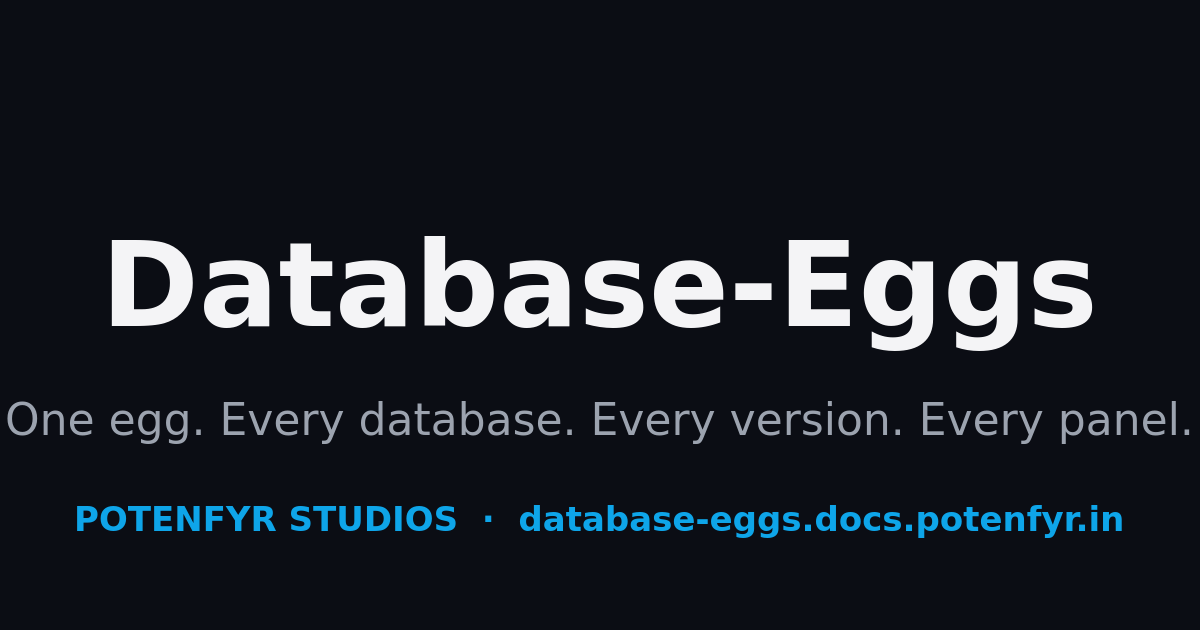
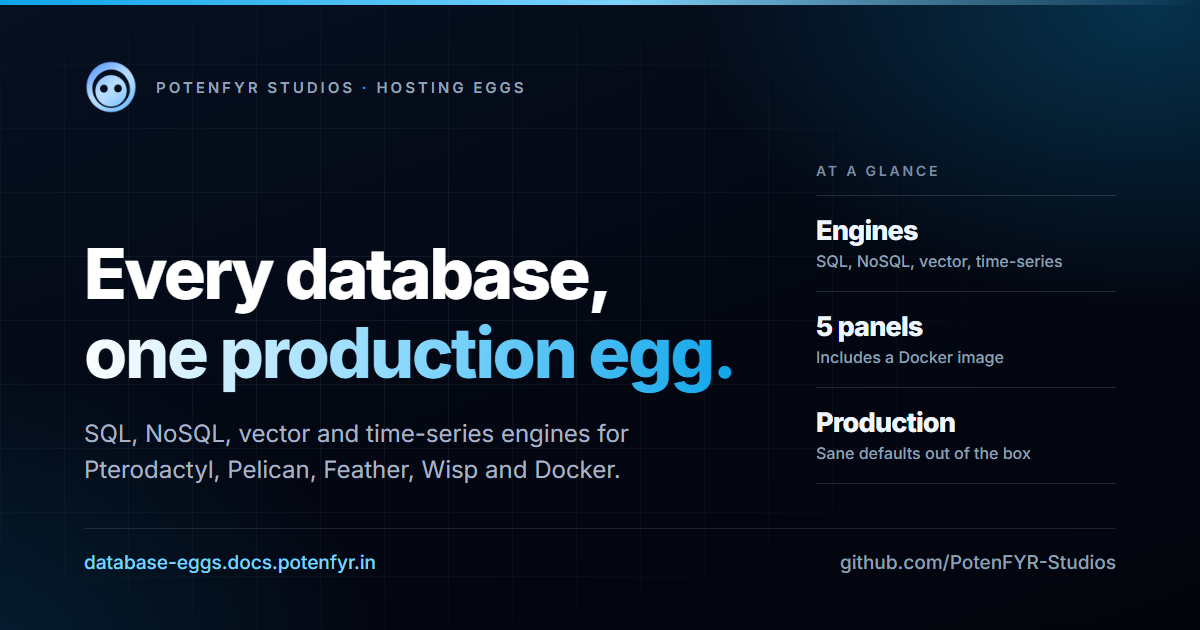
feat(docs): redesigned OG card rendered from a committed script

diff --git a/docs/scripts/og/card.html b/docs/scripts/og/card.html
@@ -1,0 +1,199 @@
+<!doctype html>
+<html lang="en">
+  <head>
+    <meta charset="utf-8" />
+    <title>Database-Eggs link preview</title>
+    <!--
+      Shared template for PotenFYR Studios project OG cards.
+      Edit only the CONFIG block below; the layout stays identical across the org
+      so every project's link preview reads as one family.
+      Render with: bun run og:image  (scripts/og/build-og.mjs)
+    -->
+    <link rel="preconnect" href="https://fonts.googleapis.com" />
+    <link rel="preconnect" href="https://fonts.gstatic.com" crossorigin />
+    <link
+      href="https://fonts.googleapis.com/css2?family=Inter:wght@400;500;600;700;800&display=swap"
+      rel="stylesheet"
+    />
+    <style>
+      /* ---------------- CONFIG ---------------- */
+      :root {
+        --accent: #0ea5e9;         /* project accent, matches the docs site */
+        --accent-soft: #7dd3fc;    /* lighter tint of --accent */
+      }
+      /* ---------------- /CONFIG --------------- */
+
+      * { box-sizing: border-box; margin: 0; padding: 0; }
+      html, body { width: 1200px; height: 630px; overflow: hidden; }
+      body {
+        font-family: 'Inter', 'Segoe UI', system-ui, sans-serif;
+        background: #030712;
+        color: #fff;
+        -webkit-font-smoothing: antialiased;
+      }
+
+      .card {
+        position: relative;
+        width: 1200px;
+        height: 630px;
+        padding: 60px 84px 56px;
+        display: flex;
+        flex-direction: column;
+        background:
+          radial-gradient(720px 460px at 96% 2%, color-mix(in srgb, var(--accent) 26%, transparent), transparent 64%),
+          radial-gradient(700px 500px at -4% 106%, color-mix(in srgb, var(--accent) 16%, transparent), transparent 62%),
+          linear-gradient(160deg, #061021 0%, #030712 54%, #03050d 100%);
+        overflow: hidden;
+      }
+
+      .grid {
+        position: absolute;
+        inset: 0;
+        background-image:
+          linear-gradient(to right, rgba(148, 163, 184, 0.10) 1px, transparent 1px),
+          linear-gradient(to bottom, rgba(148, 163, 184, 0.10) 1px, transparent 1px);
+        background-size: 64px 64px;
+        -webkit-mask-image: radial-gradient(780px 430px at 32% 50%, #000 0%, rgba(0, 0, 0, 0.5) 60%, transparent 88%);
+        mask-image: radial-gradient(780px 430px at 32% 50%, #000 0%, rgba(0, 0, 0, 0.5) 60%, transparent 88%);
+      }
+
+      .edge {
+        position: absolute;
+        top: 0; left: 0; right: 0;
+        height: 5px;
+        background: linear-gradient(90deg, var(--accent) 0%, var(--accent-soft) 52%, transparent 100%);
+      }
+
+      .content { position: relative; z-index: 2; display: flex; flex-direction: column; height: 100%; }
+
+      .lockup { display: flex; align-items: center; gap: 18px; }
+      .lockup img { width: 54px; height: 54px; display: block; }
+      .lockup .studio {
+        font-size: 15px;
+        font-weight: 600;
+        letter-spacing: 0.2em;
+        text-transform: uppercase;
+        color: #94a3b8;
+      }
+      .lockup .studio em { font-style: normal; color: var(--accent); }
+
+      .body {
+        margin-top: auto;
+        display: flex;
+        align-items: flex-end;
+        justify-content: space-between;
+        gap: 54px;
+      }
+      .copy { max-width: 720px; }
+
+      h1 {
+        font-size: 70px;
+        line-height: 1.12;
+        font-weight: 800;
+        letter-spacing: -0.035em;
+      }
+      h1 .grad {
+        background: linear-gradient(96deg, #ffffff 0%, var(--accent-soft) 55%, var(--accent) 100%);
+        -webkit-background-clip: text;
+        background-clip: text;
+        -webkit-text-fill-color: transparent;
+      }
+
+      p.lede {
+        margin-top: 24px;
+        font-size: 24px;
+        line-height: 1.5;
+        color: #a8b4c6;
+      }
+
+      .facts { display: flex; flex-direction: column; min-width: 300px; padding-bottom: 4px; }
+      .facts .eyebrow {
+        font-size: 14px;
+        font-weight: 600;
+        letter-spacing: 0.2em;
+        text-transform: uppercase;
+        color: #7c8ba1;
+        padding-bottom: 16px;
+      }
+      .fact {
+        border-top: 1px solid rgba(148, 163, 184, 0.22);
+        padding: 18px 0 20px;
+      }
+      .fact.last { border-bottom: 1px solid rgba(148, 163, 184, 0.22); }
+      .fact b {
+        display: block;
+        font-size: 27px;
+        font-weight: 800;
+        letter-spacing: -0.03em;
+        color: #eef6ff;
+      }
+      .fact span {
+        display: block;
+        margin-top: 4px;
+        font-size: 16px;
+        font-weight: 500;
+        color: #8fa0b6;
+      }
+
+      .foot {
+        margin-top: 40px;
+        display: flex;
+        align-items: center;
+        justify-content: space-between;
+        border-top: 1px solid rgba(148, 163, 184, 0.18);
+        padding-top: 22px;
+        font-size: 19px;
+        font-weight: 500;
+      }
+      .foot .domain { color: var(--accent-soft); }
+      .foot .org { color: #8fa0b6; }
+    </style>
+  </head>
+  <body>
+    <div class="card">
+      <div class="grid"></div>
+      <div class="edge"></div>
+
+      <div class="content">
+        <div class="lockup">
+          <img src="../../public/favicon.png" alt="" />
+          <div class="studio">PotenFYR Studios <em>·</em> Hosting Eggs</div>
+        </div>
+
+        <div class="body">
+          <div class="copy">
+            <h1>
+              Every database,<br />
+              <span class="grad">one production egg.</span>
+            </h1>
+            <p class="lede">
+              SQL, NoSQL, vector and time-series engines for<br />
+              Pterodactyl, Pelican, Feather, Wisp and Docker.
+            </p>
+          </div>
+
+          <div class="facts">
+            <div class="eyebrow">At a glance</div>
+            <div class="fact">
+              <b>Engines</b>
+              <span>SQL, NoSQL, vector, time-series</span>
+            </div>
+            <div class="fact">
+              <b>5 panels</b>
+              <span>Includes a Docker image</span>
+            </div>
+            <div class="fact last">
+              <b>Production</b>
+              <span>Sane defaults out of the box</span>
+            </div>
+          </div>
+        </div>
+
+        <div class="foot">
+          <div class="domain">database-eggs.docs.potenfyr.in</div>
+          <div class="org">github.com/PotenFYR-Studios</div>
+        </div>
+      </div>
+    </div>
+  </body>
+</html>
